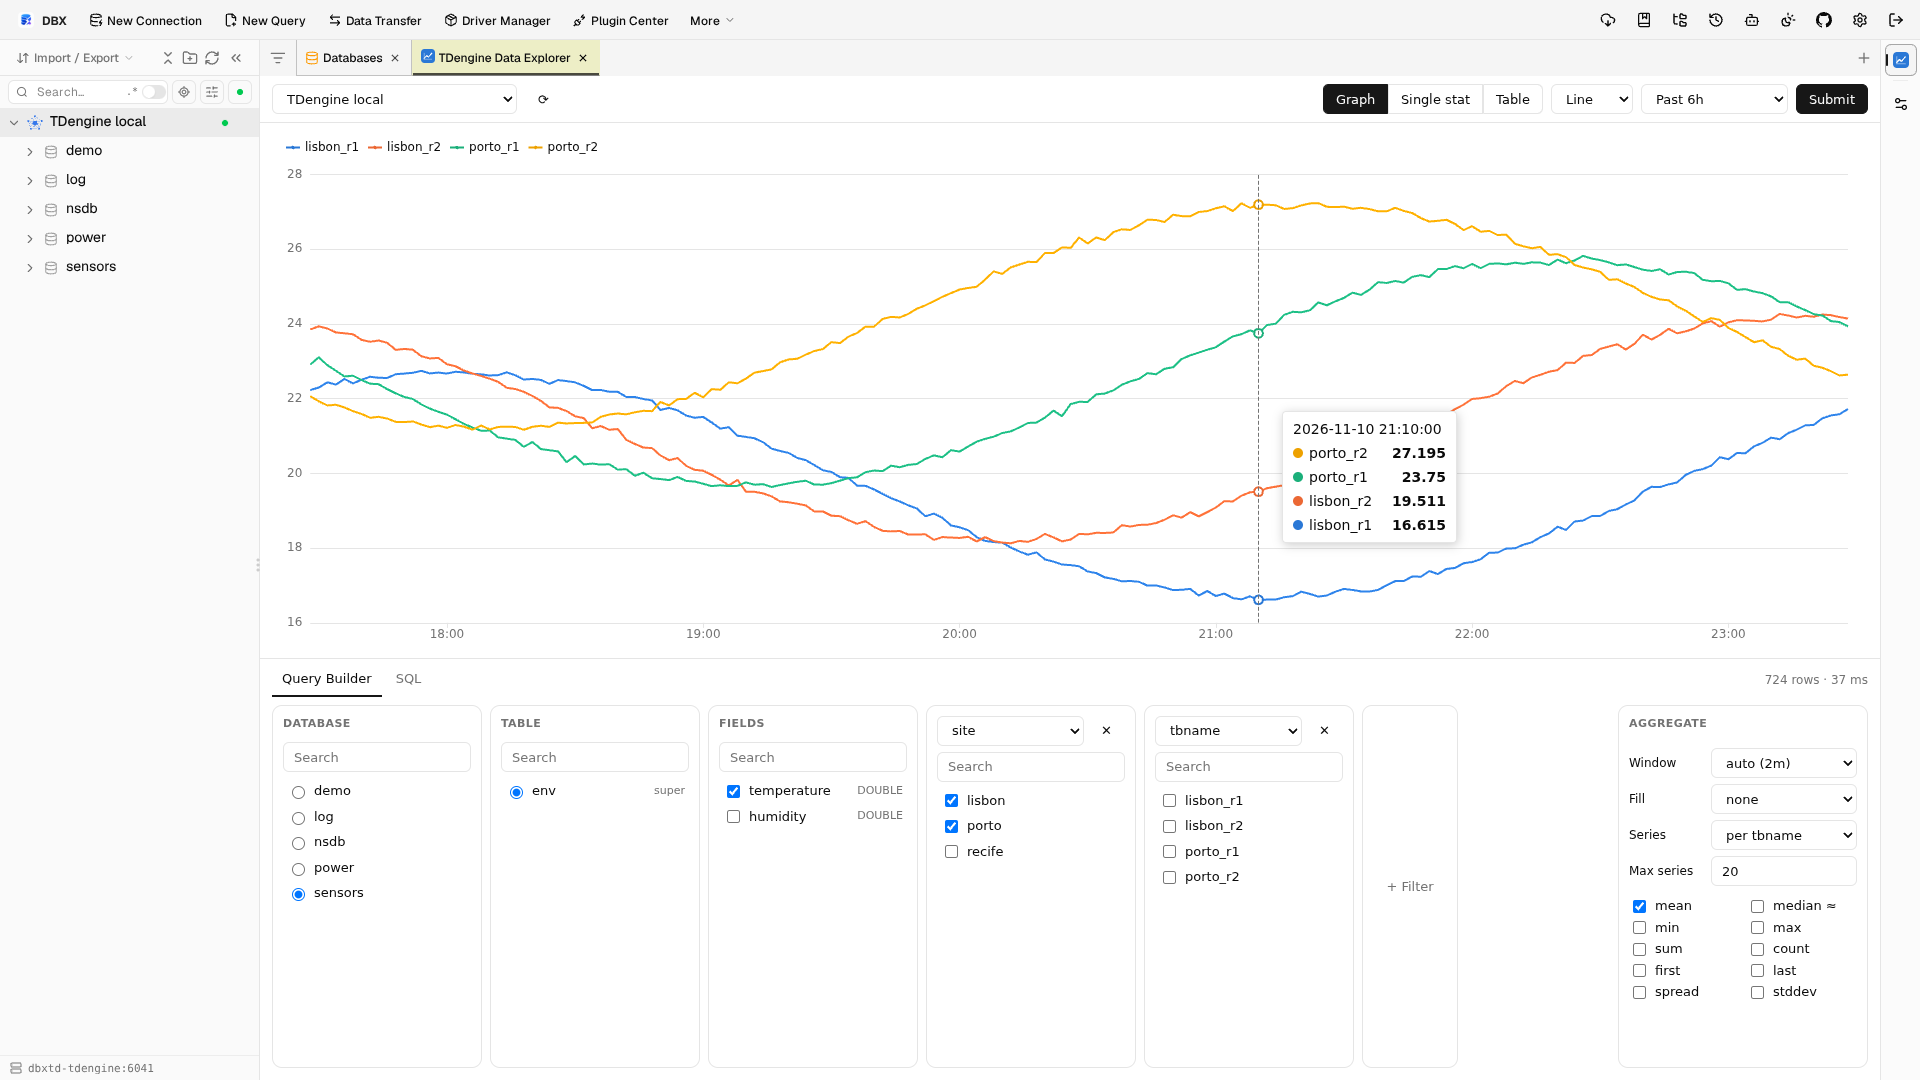
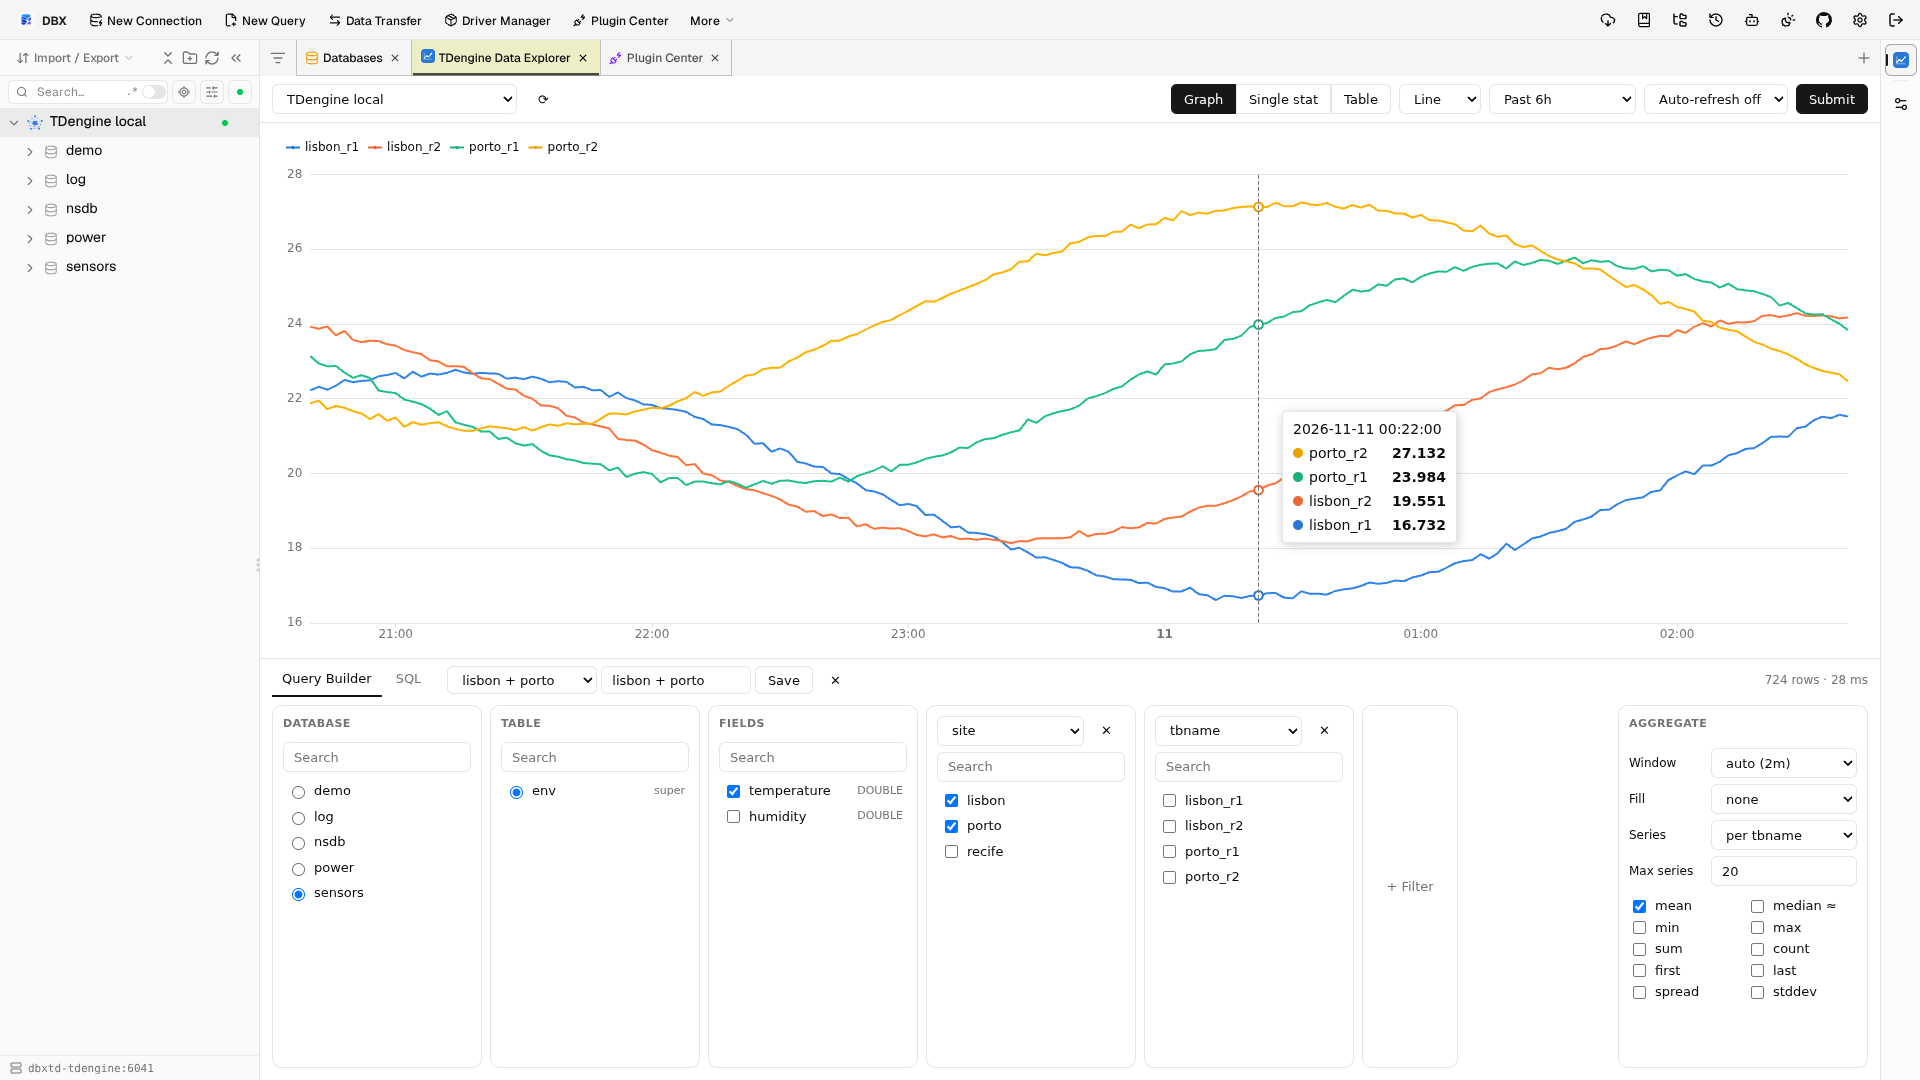
docs: describe the new features and record the result-view decision
README lists raw mode, auto-refresh, saved queries and the three
languages with their limits; AGENTS.md adds the invariants behind them
and records why a result-view contribution was decided against.
Screenshots show the new toolbar and saved-query controls.

diff --git a/AGENTS.md b/AGENTS.md
@@ -48,7 +48,11 @@ Run `npm test` and `npm run build` before every commit. Run the TDengine suite w
 - **UI:** use the DBX UI kit classes (`dbx-card`, `dbx-btn`, `dbx-select`, …) and `--color-*` tokens so light/dark and custom palettes follow DBX. Chart colors come from the validated 8-slot palette in `Chart.svelte`; series 9+ are gray. Do not add hues.
 - **Untrusted text:** database values reach the DOM only through Svelte interpolation; never `{@html}`.
 - **Context menu:** the table menu entry shows on every database type (DBX cannot scope it without a sidecar). The workbench must keep refusing non-TDengine connections without querying them, so no consent prompt appears for them.
-- **Restoring a tab never runs a query:** state restore and context changes only load metadata; the user presses Submit.
+- **Restoring a tab never runs a query:** state restore, context changes and opening a saved query only load metadata; the user presses Submit. The auto-refresh interval stays out of `query` so it is never saved.
+- **Auto-refresh** repeats the last submitted query (`lastRun`), skips ticks while running or zoomed, and turns itself off on any error.
+- **Raw mode** (`window: "raw"`) is `ORDER BY ts DESC LIMIT MAX_ROWS` without `PARTITION BY`: under `ORDER BY`, TDengine sorts partitions as one stream, so per-series limits are not available in one query.
+- **Strings:** every UI string goes through `t()` with keys in all three tables of `src/lib/i18n.js` (`test/i18n.test.js` enforces matching keys and placeholders). Validation errors from `sql.js` carry a `code` that is also a message key.
+- **Saved queries** live in one global `host.storage` key (`saved`, newest first, `MAX_SAVED` 50) without `connectionId`; re-read before writing.
 
 ## Testing in a real DBX
 
@@ -69,6 +73,8 @@ Screenshots in `docs/screenshots/` were captured this way at 1920×1080; refresh
 - Versions come from Conventional Commits on `main`: `feat` → minor; `fix`, `perf`, `revert` → patch; breaking change → major; `docs`, `chore`, `ci`, `test`, `refactor`, `style`, `build` → no release. `develop` publishes `-beta` prereleases.
 - A release `vX.Y.Z` carries the `.dbxp`, its `.artifact.json` and `SHA256SUMS`. DBX Store submission is still manual: a candidate PR to `t8y2/dbx-store` with the release asset URL and the `.artifact.json` values.
 
-## Not built yet
+## Decided against
 
-Auto-refresh, saved queries, a `result-view` for the SQL editor, raw (non-aggregated) builder mode, plugin UI translations. Keep new features in the same shape: pure logic in `src/lib` with `node:test` coverage, UI in Svelte components.
+A `result-view` contribution for DBX's SQL editor: DBX already charts those results natively, the button would show on every database type (no dbType filter), and the snapshot is 500 rows without column types and with offset-less timestamps. Revisit only if DBX adds a dbType filter and column types.
+
+Keep new features in the same shape: pure logic in `src/lib` with `node:test` coverage, UI in Svelte components, strings in `src/lib/i18n.js`.

diff --git a/README.md b/README.md
@@ -12,8 +12,12 @@ New to DBX plugins? [`docs/dbx-plugin-system.md`](docs/dbx-plugin-system.md) exp
 
 - **Cards like the InfluxDB builder:** Database → Table → Fields → any number of tag filter cards. Each filter card lists the values left after the cards on its left (`SELECT DISTINCT tag … WHERE <earlier filters>`), `tbname` included.
 - **Aggregate panel:** window (`auto` keeps every series under the row cap, ~360 points like InfluxDB), fill, one series per child table / per tag / merged, max series, and mean, median ≈, min, max, sum, count, first, last, spread, stddev.
+- **Raw mode:** window "none (raw)" plots the latest 5000 points in the range, one series per child table, without aggregation.
 - **Views:** graph (line, step, points; crosshair tooltip with every series), single stat, table.
+- **Auto-refresh:** every 10s, 30s, 1m or 5m for relative ranges; it pauses while the chart is zoomed and turns off on any error.
 - **SQL tab:** shows the generated SQL; edit it or write your own read-only query (Ctrl+Enter).
+- **Saved queries:** name a builder or SQL query and reopen it from any tab; it applies to the open connection and waits for Submit.
+- **Languages:** English, Simplified Chinese and Brazilian Portuguese, following the DBX language.
 - **Entry points:** the app toolbar / command palette, and **Open in TDengine Data Explorer** on a table's context menu. A child table opens as its supertable filtered to that `tbname`.
 
 ## How it works
@@ -63,7 +67,10 @@ The integration test expects `taosBenchmark -y -d power` data. `dbx-plugin dev` 
 - `queryData` returns at most 5000 rows; a truncated result says so in the status line. Shorten the range, widen the window or lower max series.
 - DBX cannot scope context-menu entries to one database type, so the table menu entry also shows on other connections; the builder refuses non-TDengine connections without querying them.
 - Timestamps in hand-written SQL are read in the server time zone with one fixed offset (`SELECT timezone()`); builder queries are exact because they use `TO_ISO8601(…, 'Z')`.
-- Not included: auto-refresh, saved queries, a `result-view` for the SQL editor, raw (non-aggregated) builder mode, plugin UI translations.
+- Auto-refresh keeps running while its DBX tab is in the background: Host API 1.4 gives plugins no tab-visibility signal.
+- Raw mode cannot return the latest N points of every series in one query (TDengine sorts `PARTITION BY` output as one stream under `ORDER BY`), so busy child tables can fill most of the 5000 points; the status line says when the cap hides older points.
+- Host and TDengine error messages stay in English.
+- Dropped: a `result-view` button for DBX's SQL editor. DBX already charts SQL-editor results natively, the button would appear on every database type, and its snapshot is capped at 500 rows without column types; the SQL tab covers the same need with up to 5000 rows.
 
 ## Releases
 
